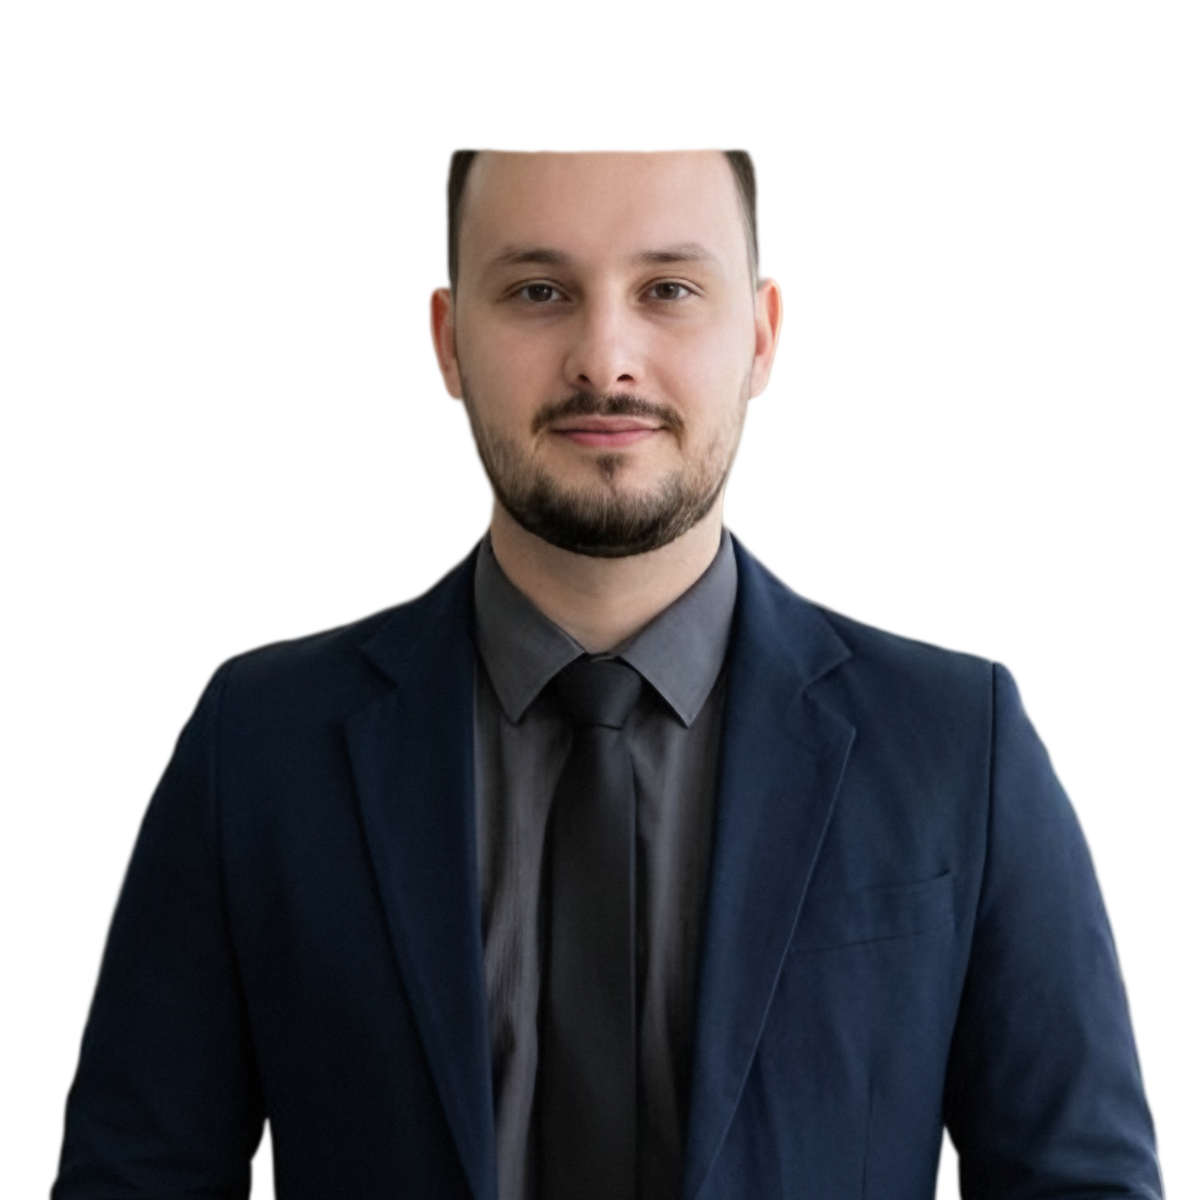
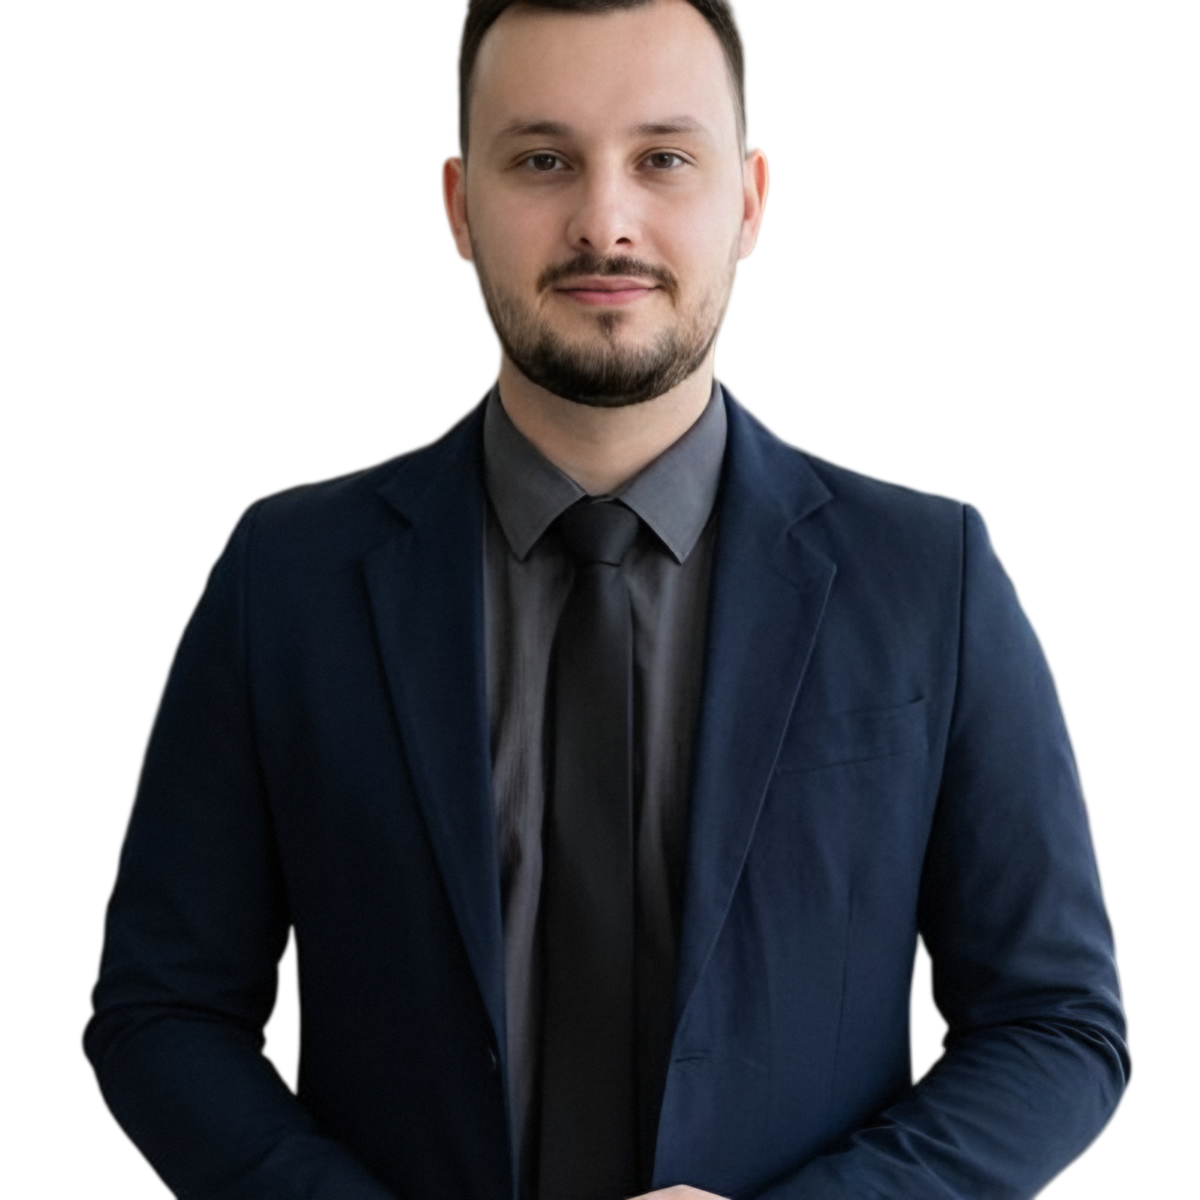
Abertura: cabeça cortada pela foto original se dissolve no topo; Jean com a foto no enquadramento original

diff --git a/src/gl/hero.js b/src/gl/hero.js
@@ -44,6 +44,8 @@ void main() {
   side = mix(side, 1., smoothstep(.62, .78, vUv.y));
   c *= mix(.35, 1., side);
   a *= side;
+  // a head cut off at the top of the original photo dissolves upward the same way
+  a *= smoothstep(1., .9, vUv.y);
 
   c += (hash(floor(gl_FragCoord.xy) + floor(uTime * 12.)) - .5) * .03;
 
